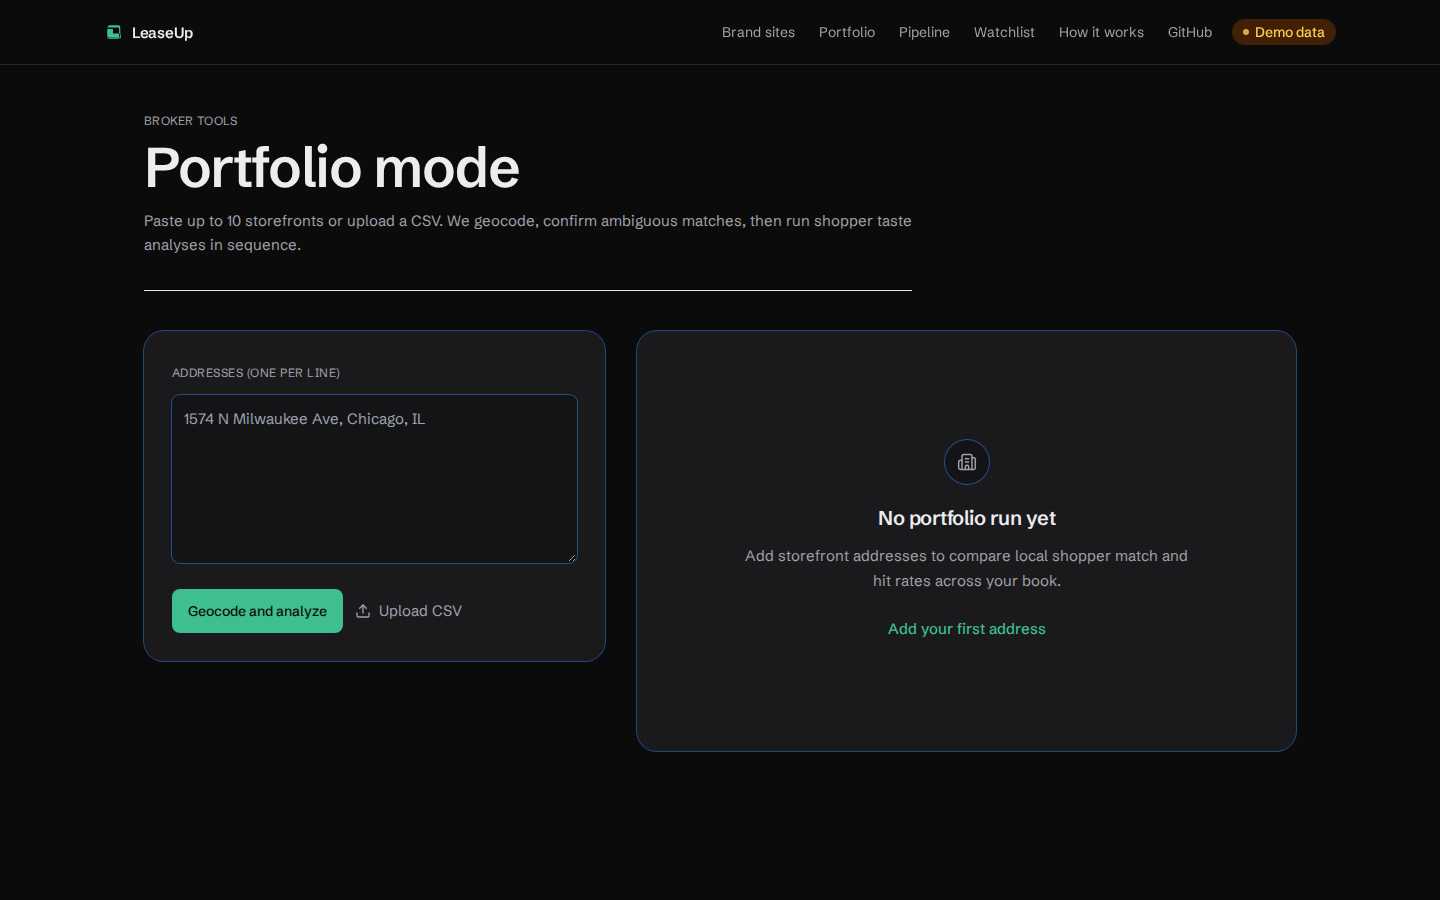
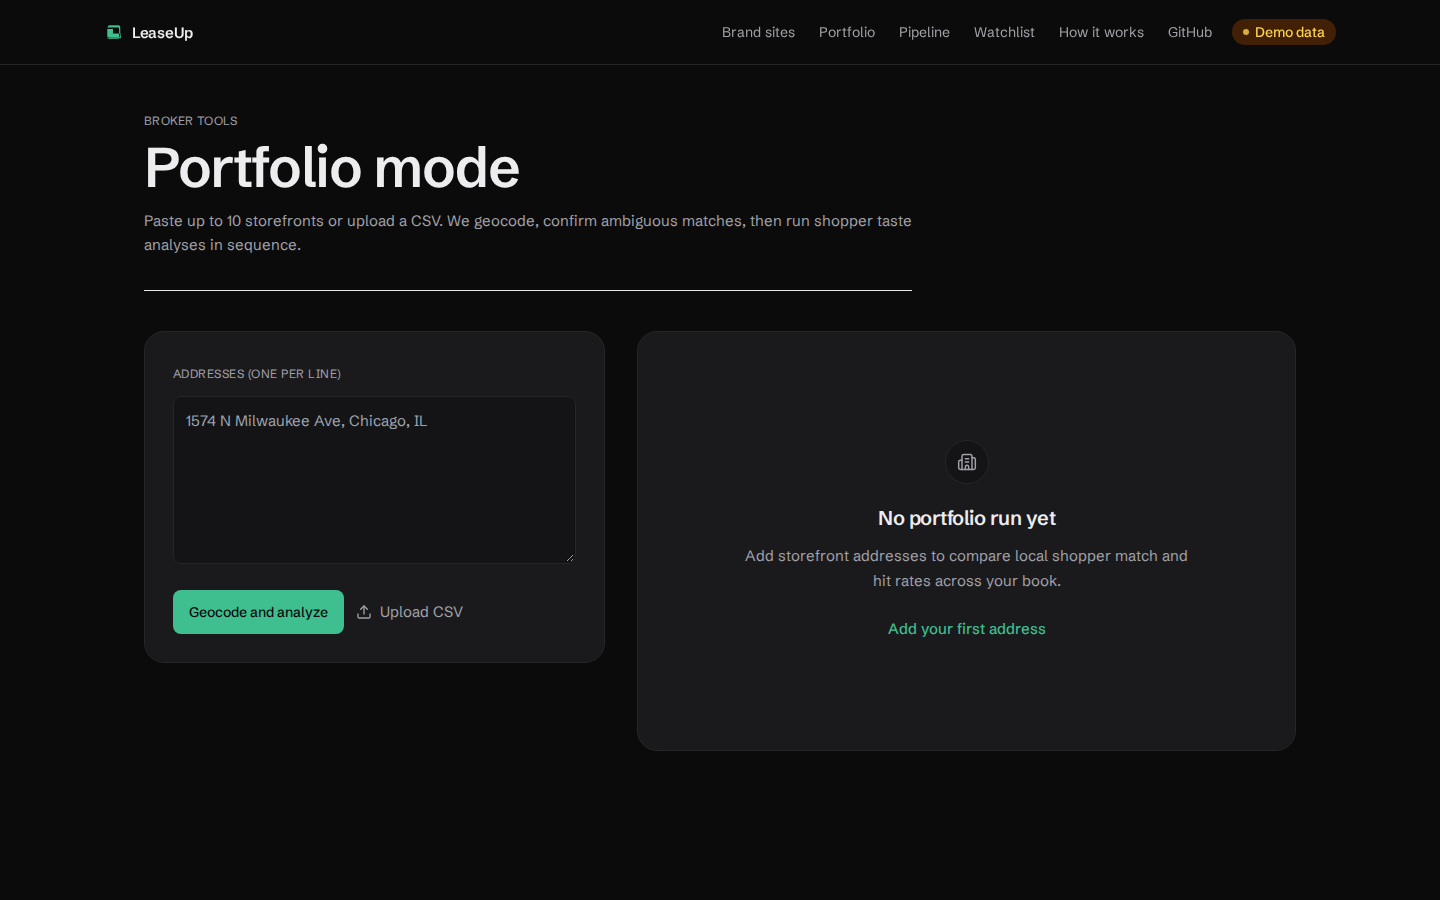
Use neutral border tokens on pipeline and portfolio panels
Replace ring-border utilities that rendered as browser-blue outlines with border-border hairlines on static surfaces. Keep focus-visible accent rings on inputs and buttons only. Re-capture 1440 pipeline and portfolio screenshots.

Changed region(s): [[0.125, 0.4044, 0.2812, 0.4978], [0.125, 0.6533, 0.3125, 0.6844]]

diff --git a/apps/web/src/pages/PortfolioPage.tsx b/apps/web/src/pages/PortfolioPage.tsx
@@ -248,13 +248,13 @@ export function PortfolioPage() {
         <div className="mt-10 grid min-w-0 gap-6 lg:grid-cols-12 lg:gap-8 lg:items-start">
           <div className="min-w-0 lg:col-span-5">
             {!portfolio && (
-              <div className="rounded-[1.25rem] bg-surface-2 p-6 ring-1 ring-border/60 md:p-7">
+              <div className="rounded-[1.25rem] border border-border bg-surface-2 p-6 md:p-7">
                 <label className="text-label uppercase text-ink-3" htmlFor="portfolio-addresses">
                   Addresses (one per line)
                 </label>
                 <textarea
                   id="portfolio-addresses"
-                  className="mt-3 min-h-[168px] w-full rounded-control border-0 bg-surface px-3 py-3 text-body text-ink shadow-sm ring-1 ring-border/70 focus-visible:outline-none focus-visible:ring-2 focus-visible:ring-accent"
+                  className="mt-3 min-h-[168px] w-full rounded-control border border-border bg-surface px-3 py-3 text-body text-ink focus-visible:outline-none focus-visible:ring-2 focus-visible:ring-accent"
                   value={draft}
                   onChange={(e) => setDraft(e.target.value)}
                   placeholder="1574 N Milwaukee Ave, Chicago, IL"
@@ -291,11 +291,11 @@ export function PortfolioPage() {
             )}
             {portfolio && (
               <ErrorBoundary>
-                <section className="min-w-0 rounded-[1.25rem] bg-surface-2 p-6 ring-1 ring-border/60 md:p-7" aria-label="Progress timeline">
+                <section className="min-w-0 rounded-[1.25rem] border border-border bg-surface-2 p-6 md:p-7" aria-label="Progress timeline">
                   <h2 className="text-label uppercase text-ink-3">Progress</h2>
                   <ol className="mt-4 min-w-0 space-y-2" data-testid="portfolio-timeline">
                     {portfolio.rows.map((row) => (
-                      <li key={row.id} className="min-w-0 rounded-control bg-surface px-3 py-2.5 text-body ring-1 ring-border/60">
+                      <li key={row.id} className="min-w-0 rounded-control border border-border bg-surface px-3 py-2.5 text-body">
                         <p className="break-words font-medium text-ink">{row.inputAddress}</p>
                         <p className="text-small text-ink-3">{statusLabel(row.status)}</p>
                         {row.status === 'ambiguous' && row.geocodeCandidates && (
@@ -304,7 +304,7 @@ export function PortfolioPage() {
                               <button
                                 key={c.resolvedAddress}
                                 type="button"
-                                className="block w-full break-words rounded-control bg-surface-2 px-2 py-1.5 text-left text-small ring-1 ring-border/60 hover:ring-accent/60"
+                                className="block w-full break-words rounded-control border border-border bg-surface-2 px-2 py-1.5 text-left text-small hover:border-border-strong focus-visible:outline-none focus-visible:ring-2 focus-visible:ring-accent"
                                 onClick={() => void confirmRow(row.id, i)}
                               >
                                 {c.resolvedAddress}
@@ -332,7 +332,7 @@ export function PortfolioPage() {
           <div className="min-w-0 lg:col-span-7">
             <ErrorBoundary>
               {portfolio ? (
-                <div className="overflow-hidden overflow-x-auto rounded-[1.25rem] bg-surface ring-1 ring-border/60">
+                <div className="overflow-hidden overflow-x-auto rounded-[1.25rem] border border-border bg-surface">
                   <table className="w-full text-left text-body" data-testid="portfolio-table">
                     <thead className="border-b border-border/70 bg-surface-2/80 text-label uppercase text-ink-3">
                       <tr>
@@ -383,7 +383,7 @@ export function PortfolioPage() {
                 <PortfolioLoadingSkeleton />
               ) : (
                 <div
-                  className="flex min-h-[360px] items-center justify-center rounded-[1.25rem] bg-surface-2 ring-1 ring-border/60 lg:min-h-[420px]"
+                  className="flex min-h-[360px] items-center justify-center rounded-[1.25rem] border border-border bg-surface-2 lg:min-h-[420px]"
                   data-testid="portfolio-empty-state"
                 >
                   <PageEmptyState icon={Building2} title="No portfolio run yet">

diff --git a/apps/web/src/pages/PipelinePage.tsx b/apps/web/src/pages/PipelinePage.tsx
@@ -96,14 +96,14 @@ export function PipelinePage() {
         </header>
 
         {readOnly && (
-          <p className="mt-6 rounded-[1rem] bg-surface-2 px-4 py-3 text-body text-ink-2 ring-1 ring-border/50">
+          <p className="mt-6 rounded-[1rem] border border-border bg-surface-2 px-4 py-3 text-body text-ink-2">
             Cards on this link only. Outreach drafts are not included.
           </p>
         )}
 
         {error && (
           <div
-            className="mx-auto mt-10 max-w-md rounded-[1.25rem] bg-surface px-6 py-6 text-center ring-1 ring-border/60"
+            className="mx-auto mt-10 max-w-md rounded-[1.25rem] border border-border bg-surface px-6 py-6 text-center"
             data-testid="pipeline-error"
             role="alert"
           >
@@ -120,7 +120,7 @@ export function PipelinePage() {
           <>
             <div className="mt-10">
               {emptyPipeline ? (
-                <div className="overflow-hidden rounded-[1.25rem] bg-surface-2 ring-1 ring-border/60">
+                <div className="overflow-hidden rounded-[1.25rem] border border-border bg-surface-2">
                   <PageEmptyState icon={KanbanSquare} title="Nothing in your pipeline yet" testId="pipeline-empty">
                     <p>{pipelineEmptyLine}</p>
                     <Link to="/" className="mt-6 inline-block">

diff --git a/apps/web/src/components/ui/PageEmptyState.tsx b/apps/web/src/components/ui/PageEmptyState.tsx
@@ -24,7 +24,7 @@ export function PageEmptyState({
       data-testid={testId}
     >
       <div
-        className="flex h-11 w-11 items-center justify-center rounded-full bg-surface text-ink-3 shadow-sm ring-1 ring-border/70"
+        className="flex h-11 w-11 items-center justify-center rounded-full border border-border bg-surface text-ink-3"
         aria-hidden
       >
         <Icon className="h-5 w-5" strokeWidth={1.75} />

diff --git a/apps/web/src/components/pipeline/OwnerUpdatePanel.tsx b/apps/web/src/components/pipeline/OwnerUpdatePanel.tsx
@@ -41,7 +41,7 @@ export function OwnerUpdatePanel({ embedded = false }: { embedded?: boolean }) {
       className={
         embedded
           ? 'px-6 py-6 md:px-8 md:py-7'
-          : 'mt-10 rounded-[1.25rem] bg-surface p-6 ring-1 ring-border/60 md:p-7'
+          : 'mt-10 rounded-[1.25rem] border border-border bg-surface p-6 md:p-7'
       }
       data-testid="owner-update-panel"
     >
